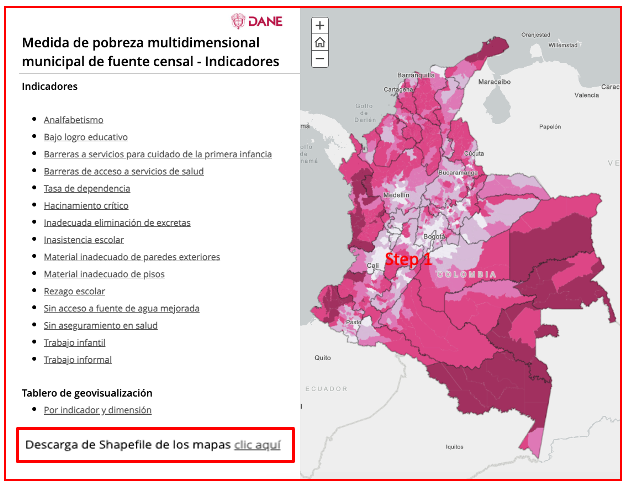
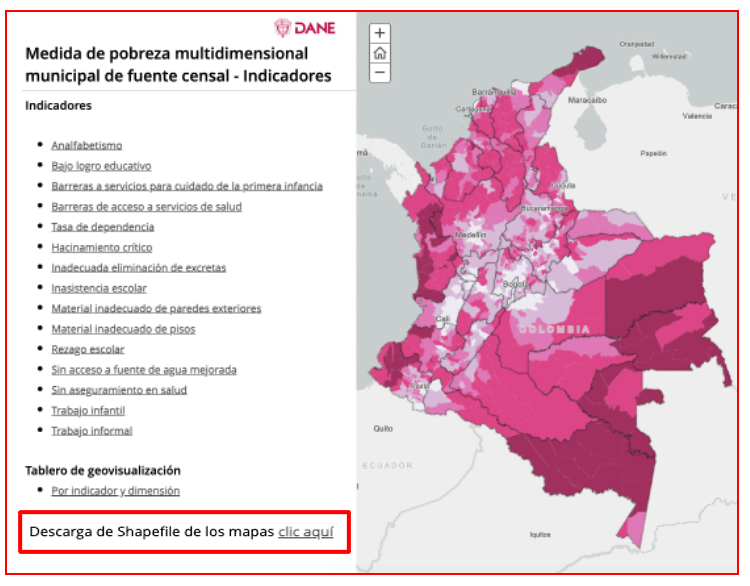
Built site for gh-pages

diff --git a/2024/weeks/week05/slides.html b/2024/weeks/week05/slides.html
@@ -403,7 +403,7 @@ Ivan Lizarazo
 <h2>Goal</h2>
 <p>To obtain a multidimensional poverty’s shapefile and produce a meaningful &amp; appealing map for our department</p>
 <figure>
-<img src="figures/MPM_colombia.png" width="35%" height="35%">
+<img src="figures/MPM_colombia.png" width="30%" height="30%">
 </figure>
 </section>
 <section id="indice-de-pobreza-multidimensional-ipm" class="slide level2">
